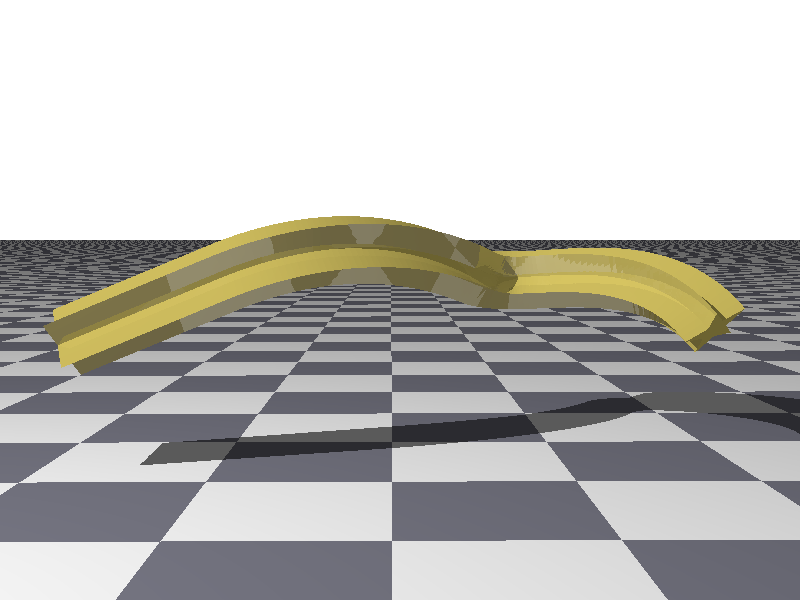
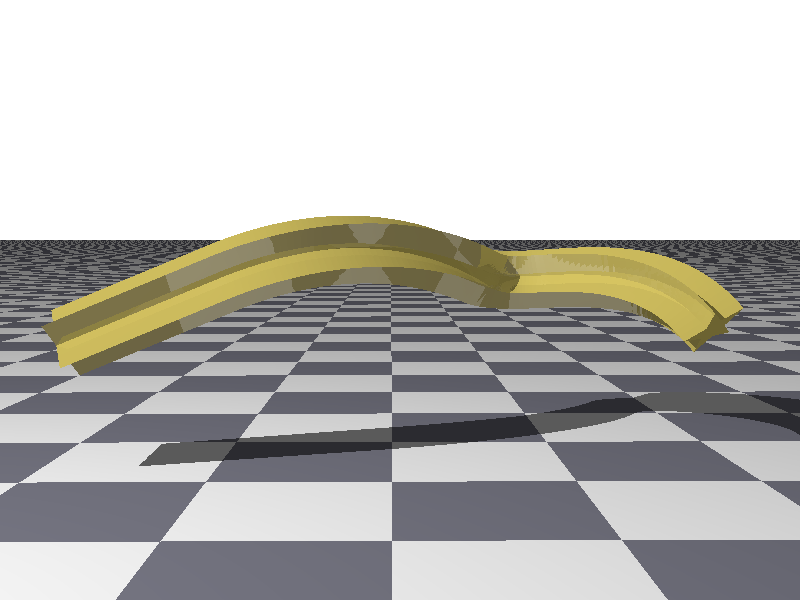
Center a sweep's profile about its origin by default
Given a sweep's nature -- the spline is the path the profile rides along --
the spline should thread the middle of the profile, not whatever point the
profile happens to be drawn around.  So a sweep now recenters its profile
about the 2D origin (the middle of the profile's bounding box) before
lofting it.  This matters most for an outline that lives off to one side,
as a pasted "svg" or an "icon" tends to; without it the spline would run
along the profile's edge rather than down its middle.

A "no center" clause on the sweep keeps the profile's own placement, aiming
the spline at the profile's 2D origin (the previous behavior).

Centering is a uniform translation of the sampled profile, so it leaves a
closed profile closed and does not disturb the per-point scale applied
afterward.  It does change the default, so it is not bit-for-bit: the two
gallery star sweeps, whose profile sat a hair above the origin, are
re-rendered; every other existing sweep uses a profile already centered on
the origin and is unchanged.

Tests: TestSweep checks an off-center square lands straddling the spline by
default and keeps its own placement under "no center"; TestSweepClauses
renders both through the DSL and confirms the shift.  Docs: the Sweep
section gains a centering note, and the reference index lists "no center".

diff --git a/Tests/TestSweep.cs b/Tests/TestSweep.cs
@@ -343,6 +343,74 @@ public class TestSweep
     }
 
     /// <summary>
+    /// By default a sweep recenters its profile about the 2D origin, so the spline threads the
+    /// middle of the profile.  A square drawn off in the first quadrant (corners (0,0)..(2,2),
+    /// centered on (1,1)) carried up a straight spline on the Y axis must therefore come out
+    /// straddling that axis -- the lofted ring's X extent centered on 0, not on the +1 the
+    /// profile was drawn around.
+    /// </summary>
+    [TestMethod]
+    public void TestProfileIsCenteredAboutTheSplineByDefault()
+    {
+        Sweep sweep = new () // Center defaults to true.
+        {
+            Profile = BuildOffCenterSquareProfile(),
+            Spline = new Spline
+            {
+                Start = new Point(0, 0, 0),
+                Segments = { new SplineSegmentSpec { End = new Point(0, 10, 0) } }
+            },
+            Steps = 4
+        };
+
+        sweep.PrepareForRendering();
+
+        List<double> xs = SweepVertices(sweep).Select(vertex => vertex.X).ToList();
+        double xCenter = (xs.Min() + xs.Max()) / 2;
+
+        Assert.IsTrue(xCenter.Near(0, 1e-9), $"a centered profile should straddle the spline (xCenter={xCenter})");
+    }
+
+    /// <summary>
+    /// "no center" keeps the profile's own placement, so the same off-center square is lofted
+    /// where it was drawn: its X runs 0..2, straddling +1 rather than the spline on the axis.
+    /// This is the difference the flag is there to make.
+    /// </summary>
+    [TestMethod]
+    public void TestNoCenterKeepsTheProfilesOwnPlacement()
+    {
+        Sweep sweep = new ()
+        {
+            Profile = BuildOffCenterSquareProfile(),
+            Spline = new Spline
+            {
+                Start = new Point(0, 0, 0),
+                Segments = { new SplineSegmentSpec { End = new Point(0, 10, 0) } }
+            },
+            Steps = 4,
+            Center = false
+        };
+
+        sweep.PrepareForRendering();
+
+        List<double> xs = SweepVertices(sweep).Select(vertex => vertex.X).ToList();
+        double xCenter = (xs.Min() + xs.Max()) / 2;
+
+        Assert.IsTrue(xCenter.Near(1, 1e-9), $"an uncentered profile should keep its own placement (xCenter={xCenter})");
+    }
+
+    /// <summary>
+    /// Collects every triangle vertex of a prepared sweep.
+    /// </summary>
+    private static List<Point> SweepVertices(Sweep sweep)
+    {
+        return new SurfaceIterator(sweep).Surfaces
+            .OfType<Triangle>()
+            .SelectMany(triangle => new[] { triangle.Point1, triangle.Point2, triangle.Point3 })
+            .ToList();
+    }
+
+    /// <summary>
     /// Builds a simple closed, axis-aligned square profile, corners at (+-1, +-1).
     /// </summary>
     private static GeneralPath BuildSquareProfile()
@@ -352,6 +420,20 @@ public class TestSweep
             .LineTo(-1, 1)
             .LineTo(-1, -1)
             .LineTo(1, -1)
+            .ClosePath();
+    }
+
+    /// <summary>
+    /// Builds a closed square drawn off in the first quadrant, corners (0,0)..(2,2), so its
+    /// center sits at (1, 1) rather than the origin -- the case centering exists to handle.
+    /// </summary>
+    private static GeneralPath BuildOffCenterSquareProfile()
+    {
+        return new GeneralPath()
+            .MoveTo(0, 0)
+            .LineTo(2, 0)
+            .LineTo(2, 2)
+            .LineTo(0, 2)
             .ClosePath();
     }
 }

diff --git a/Tests/TestSweepClauses.cs b/Tests/TestSweepClauses.cs
@@ -133,10 +133,49 @@ public class TestSweepClauses
     }
 
     /// <summary>
+    /// The average column of the lit pixels -- where, left to right, the swept shape sits in
+    /// the frame.
+    /// </summary>
+    private static double LitCentroidX(Canvas image)
+    {
+        double sum = 0;
+        int count = 0;
+
+        for (int y = 0; y < image.Height; y++)
+        {
+            for (int x = 0; x < image.Width; x++)
+            {
+                Color pixel = image.GetPixel(x, y);
+
+                if ((pixel.Red + pixel.Green + pixel.Blue) / 3 > 0.5)
+                {
+                    sum += x;
+                    count++;
+                }
+            }
+        }
+
+        return count == 0 ? -1 : sum / count;
+    }
+
+    /// <summary>
     /// A closed square profile, so the bar has a definite width to measure.
     /// </summary>
     private const string BarProfile =
         "profile { move to -0.3, -0.3  line to 0.3, -0.3  line to 0.3, 0.3  line to -0.3, 0.3  close }";
+
+    /// <summary>
+    /// A flat-white sweep of the given profile, carried straight up the Y axis, with one extra
+    /// line (a clause such as "no center", or empty) dropped in.
+    /// </summary>
+    private static string VerticalSweep(string profile, string extra) =>
+        "sweep {\n" +
+        "    material { pigment color White  ambient 1  diffuse 0  specular 0 }\n" +
+        "    " + profile + "\n" +
+        "    " + extra + "\n" +
+        "    spline { move to 0, -2.5, 0  line to 0, 2.5, 0 }\n" +
+        "    steps 4\n" +
+        "}";
 
     /// <summary>
     /// Wraps the given spline in a flat-white bar sweep with the square profile above.
@@ -198,6 +237,37 @@ public class TestSweepClauses
 
         Assert.IsTrue(bottom > 0, "the foot of the scaled bar should still be visible");
         Assert.IsTrue(top > bottom, $"the scaled bar should taper toward the foot (top={top}, bottom={bottom})");
+    }
+
+    /// <summary>
+    /// By default a sweep centers its profile about the spline, so an off-center square drawn
+    /// up in the first quadrant, carried up the Y axis and viewed head-on, sits in the middle
+    /// of the frame.  Adding "no center" keeps the profile's own placement, pushing it off to
+    /// one side -- the flag reaching the geometry through the DSL.
+    /// </summary>
+    [TestMethod]
+    public void TestNoCenterShiftsTheProfileOffTheSpline()
+    {
+        // A square drawn from the origin out to (2, 2), so its center is at (1, 1), not (0, 0).
+        const string offCenter =
+            "profile { move to 0, 0  line to 2, 0  line to 2, 2  line to 0, 2  close }";
+
+        Canvas centered = Render(VerticalSweep(offCenter, ""), out string centeredError);
+        Canvas offset = Render(VerticalSweep(offCenter, "no center"), out string offsetError);
+
+        Assert.IsNull(centeredError);
+        Assert.IsNull(offsetError);
+
+        double middle = centered.Width / 2.0;
+        double centeredX = LitCentroidX(centered);
+        double offsetX = LitCentroidX(offset);
+
+        Assert.IsTrue(
+            Math.Abs(centeredX - middle) < 10,
+            $"a centered profile should sit near the middle (centeredX={centeredX}, middle={middle})");
+        Assert.IsTrue(
+            offsetX - centeredX > 15,
+            $"\"no center\" should push the profile off to one side (centeredX={centeredX}, offsetX={offsetX})");
     }
 
     /// <summary>

diff --git a/Geometry/Sweep.cs b/Geometry/Sweep.cs
@@ -53,6 +53,16 @@ public class Sweep : Group
     public bool Open { get; set; }
 
     /// <summary>
+    /// This property controls whether the profile is recentered about the 2D origin before
+    /// it is lofted, so the spline threads the middle of the profile rather than whatever
+    /// point the profile happens to be drawn around.  Given a sweep's nature -- the spline is
+    /// the path the profile rides along -- centering is almost always what is wanted, so it
+    /// is on by default; a sweep that means to keep the profile's own placement (the spline
+    /// running through the profile's 2D origin) turns it off.
+    /// </summary>
+    public bool Center { get; set; } = true;
+
+    /// <summary>
     /// This method is called once prior to rendering to give the surface a chance to
     /// perform any expensive precomputing that will help ray/intersection tests go faster.
     /// </summary>
@@ -83,6 +93,10 @@ public class Sweep : Group
         (List<Point> positions, List<Vector> tangents, List<double> scales) = SampleSpline(curves);
         List<SweepFrame> frames = RotationMinimizingFrame.Compute(positions, tangents);
         List<TwoDPoint> profilePoints = Profile.Sample(ProfileSteps);
+
+        if (Center)
+            profilePoints = CenterProfile(profilePoints);
+
         List<List<Point>> rings = frames
             .Select((frame, index) => profilePoints
                 .Select(point => LoftPoint(frame, point, scales[index]))
@@ -156,6 +170,26 @@ public class Sweep : Group
 
         Add(startCap);
         Add(endCap);
+    }
+
+    /// <summary>
+    /// This method recenters the sampled profile so the middle of its bounding box sits at
+    /// the 2D origin -- the point the spline threads through.  A profile drawn well off to one
+    /// side (as an imported outline, whose coordinates often live in a box with a corner at
+    /// the origin, tends to be) would otherwise be lofted with the spline running along its
+    /// edge rather than down its middle.  Since this is a uniform translation of every point,
+    /// it leaves a closed profile closed and does not disturb the scale applied afterward.
+    /// </summary>
+    /// <param name="points">The sampled profile points.</param>
+    /// <returns>The same points, translated so their bounding box is centered on the origin.</returns>
+    private static List<TwoDPoint> CenterProfile(List<TwoDPoint> points)
+    {
+        double centerX = (points.Min(point => point.X) + points.Max(point => point.X)) / 2;
+        double centerY = (points.Min(point => point.Y) + points.Max(point => point.Y)) / 2;
+
+        return points
+            .Select(point => new TwoDPoint(point.X - centerX, point.Y - centerY))
+            .ToList();
     }
 
     /// <summary>

diff --git a/Instructions/Surfaces/SweepResolver.cs b/Instructions/Surfaces/SweepResolver.cs
@@ -32,6 +32,13 @@ public class SweepResolver : SurfaceResolver<Sweep>, IValidatable
     public Resolver<bool> OpenResolver { get; set; }
 
     /// <summary>
+    /// This property holds the resolver for whether the profile should be recentered about
+    /// the 2D origin before it is lofted.  It is left null unless the scene says "no center",
+    /// so that the sweep's own default (on) stands otherwise.
+    /// </summary>
+    public Resolver<bool> CenterResolver { get; set; }
+
+    /// <summary>
     /// This method is used to apply our resolvers to the appropriate properties of a
     /// sweep.
     /// </summary>
@@ -45,6 +52,7 @@ public class SweepResolver : SurfaceResolver<Sweep>, IValidatable
 
         StepsResolver.AssignTo(value, target => target.Steps, context, variables);
         OpenResolver.AssignTo(value, target => target.Open, context, variables);
+        CenterResolver.AssignTo(value, target => target.Center, context, variables);
 
         base.SetProperties(context, variables, value);
     }

diff --git a/Parser/LanguageParser.Sweeps.cs b/Parser/LanguageParser.Sweeps.cs
@@ -68,6 +68,11 @@ public partial class LanguageParser
                 case "open":
                     resolver.OpenResolver = new LiteralResolver<bool> { Value = true };
                     break;
+                case "no":
+                    // The only "no" clause a sweep has is "no center", so seeing "no" is
+                    // enough to know the profile should not be recentered.
+                    resolver.CenterResolver = new LiteralResolver<bool> { Value = false };
+                    break;
                 default:
                     HandleSurfaceClause(clause, resolver, "sweep");
                     break;

diff --git a/Parser/LanguageParser.DSL.cs b/Parser/LanguageParser.DSL.cs
@@ -712,6 +712,7 @@ public partial class LanguageParser
                 openBrace ?? 'Expecting an open brace after "spline" here.'
             } |
             { steps > _expression } |
+            { no > center ?? 'Expecting "center" to follow "no" here.' } |
             open | surfaceEntryClause
         ]
 

diff --git a/docs/reference.md b/docs/reference.md
@@ -69,7 +69,7 @@ Every word the language reserves, what it is for, and the chapter that explains 
 | `brilliance` | Finish: sharpens or softens the diffuse falloff. | [Materials](materials.md#brilliance-and-grain) |
 | `by` | Follows `bounded by`, and a group's `interval … by`. | [Surfaces](surfaces.md#bounding) |
 | `camera` | Where the scene is viewed from. | [Cameras](cameras.md#placing-a-camera) |
-| `center` | Text layout: center the block or a line. | [Advanced Surfaces](advanced-surfaces.md#text) |
+| `center` | Text layout: center the block or a line; also `no center` on a sweep. | [Advanced Surfaces](advanced-surfaces.md#text) |
 | `checker` | Pattern: a checkerboard of two colors. | [Pigments & Patterns](pigments-and-patterns.md#patterns) |
 | `clarity` | Interior: how far light travels before fading. | [Materials](materials.md#transparency-and-interiors) |
 | `clip` | Height field: drop ground below a height. | [Advanced Surfaces](advanced-surfaces.md#height-field) |
@@ -174,7 +174,7 @@ Every word the language reserves, what it is for, and the chapter that explains 
 | `mottled` | Pigment: a base color mottled by noise. | [Pigments & Patterns](pigments-and-patterns.md#mottling) |
 | `move` | Path/spline: lift the pen to a new point; also an L-system turtle move. | [Advanced Surfaces](advanced-surfaces.md#paths) |
 | `named` | Gives the thing being defined a name. | [Materials](materials.md#naming-and-reusing) |
-| `no` | Begins `no shadow`, `no shadows`, `no gamma`, `no jitter`. | [Surfaces](surfaces.md#no-shadow) |
+| `no` | Begins `no shadow`, `no shadows`, `no gamma`, `no jitter`, `no center`. | [Surfaces](surfaces.md#no-shadow) |
 | `noise` | Mottling: dims a color by noise. | [Pigments & Patterns](pigments-and-patterns.md#mottling) |
 | `normal` | Roughens a surface: a pattern that tilts the normal. | [Materials](materials.md#roughening-the-surface) |
 | `normals` | Smooth triangle: the normal at each corner. | [Surfaces](surfaces.md#triangle-and-smooth-triangle) |

diff --git a/docs/advanced-surfaces.md b/docs/advanced-surfaces.md
@@ -240,6 +240,15 @@ sweep {
 }
 ```
 
+**Where the spline runs through the profile.**  Because the spline is the path the profile
+rides along, a sweep **centers** the profile about the 2D origin before carrying it — so the
+spline threads the middle of the profile, wherever in its own plane the profile was actually
+drawn.  This matters most for an outline that lives off to one side, as a pasted `svg` or an
+`icon` tends to (its coordinates often fill a box with a corner at the origin); without
+centering the spline would run along the profile's edge rather than down its middle.  A sweep
+that means to keep the profile's own placement — to aim the spline at the profile's 2D
+origin — says `no center`.
+
 **Tangent continuity.**  A sweep expects its spline to flow smoothly from one segment into the
 next, and refuses if it does not, telling you which control point is at fault and by how many
 degrees it bends:
